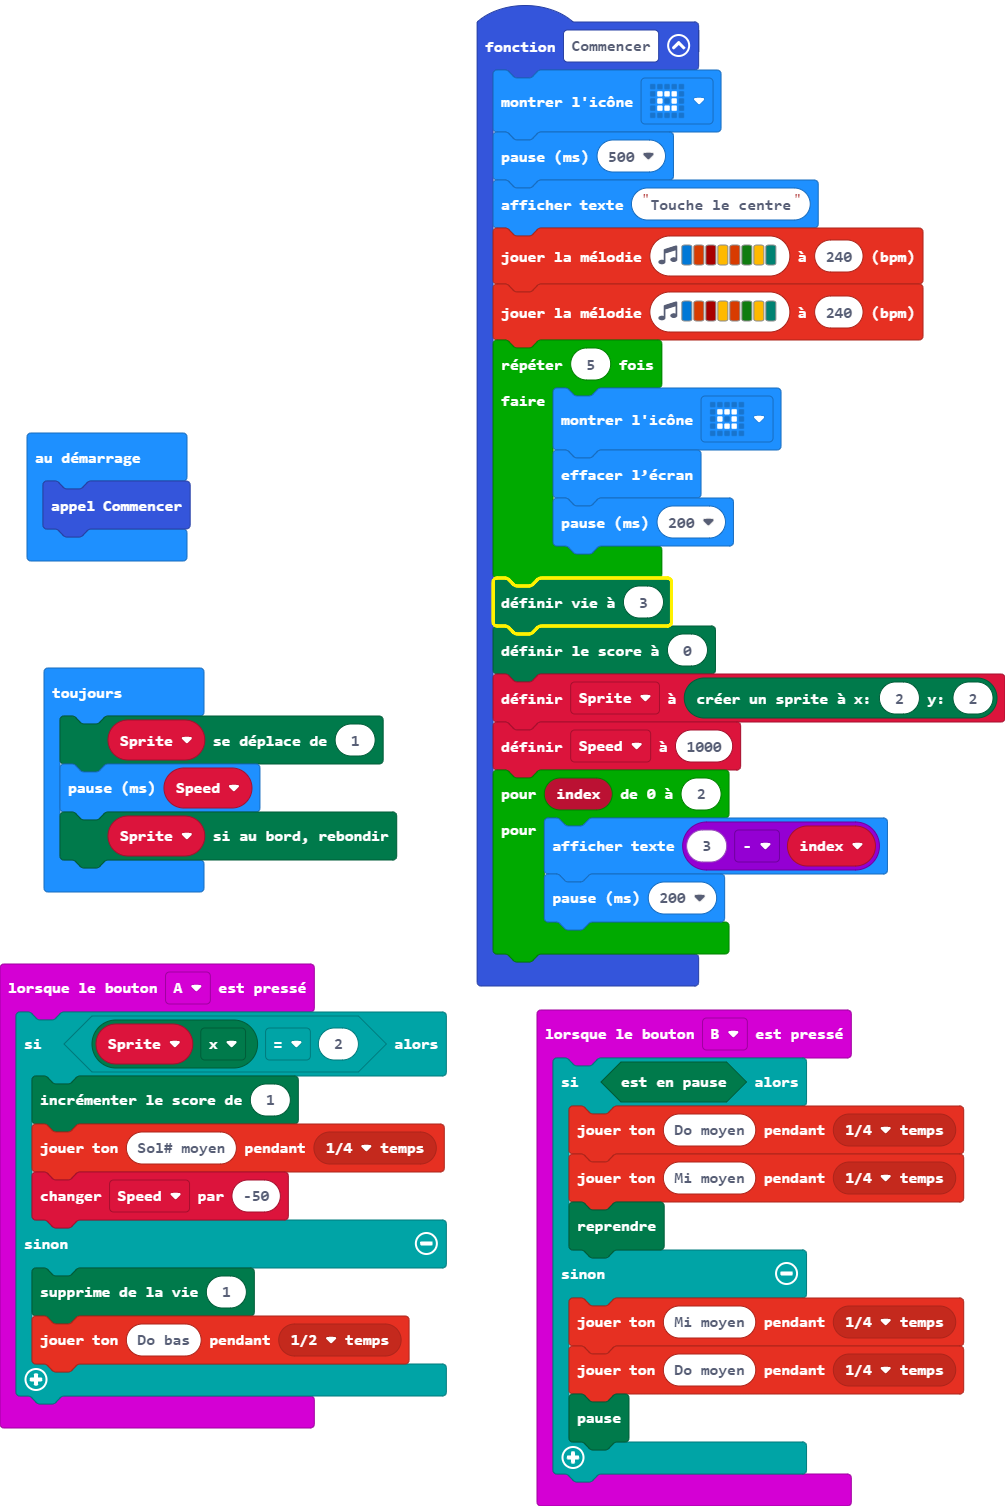
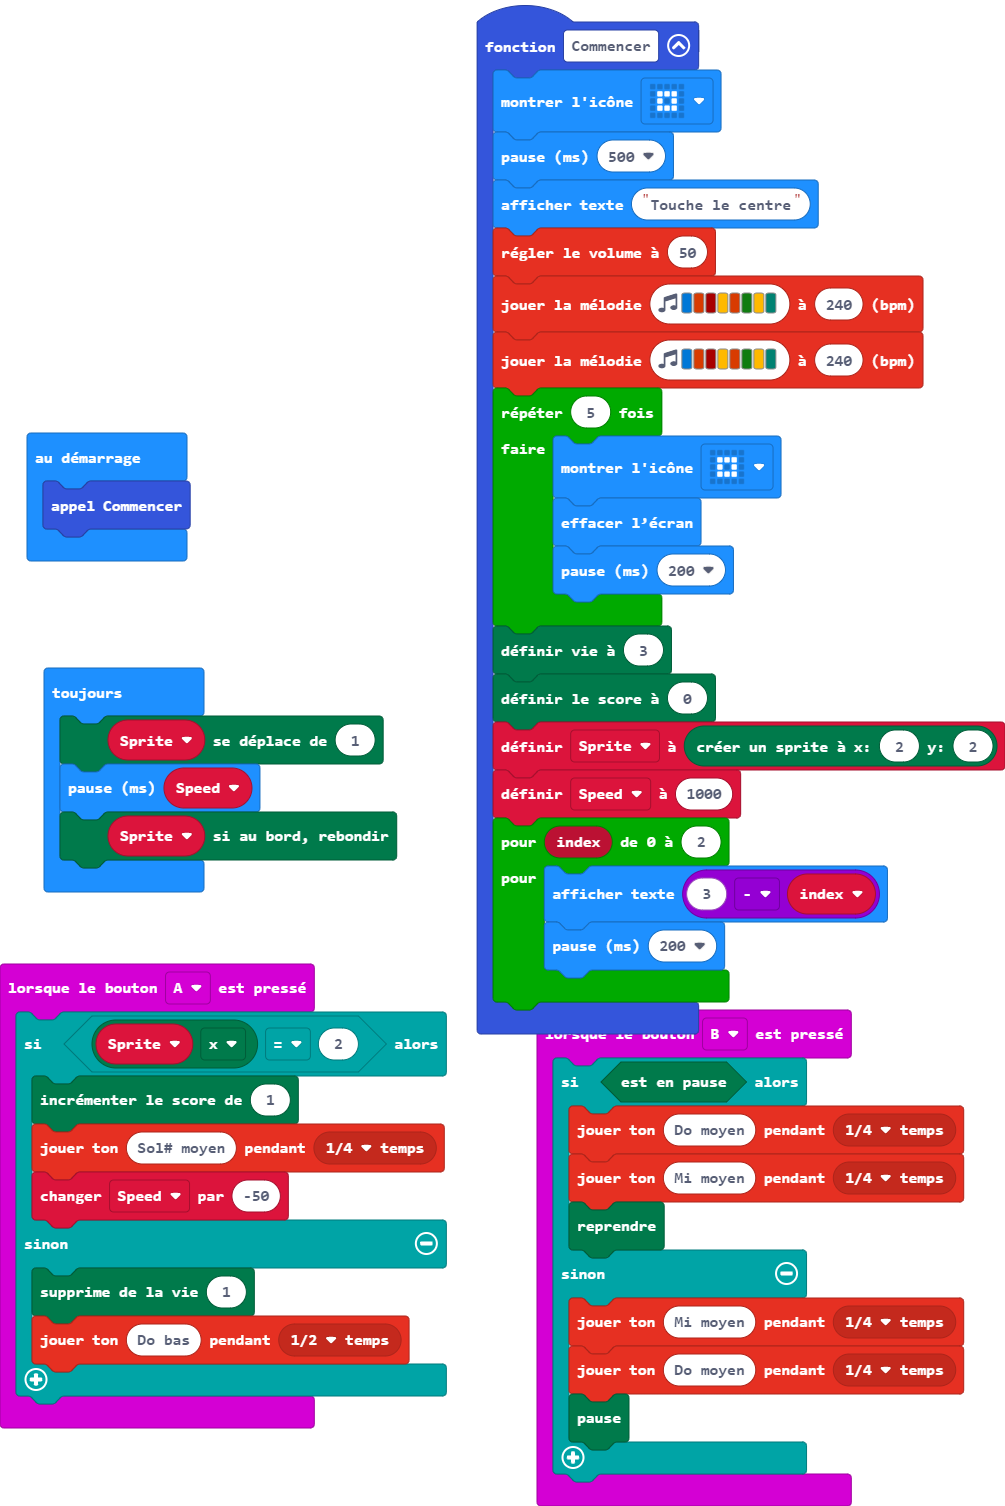
Baissé le volume

Changed region(s): [[0.4627, 0.1248, 1.0, 0.6866]]

diff --git a/main.ts b/main.ts
@@ -2,6 +2,7 @@ function Commencer () {
     basic.showIcon(IconNames.SmallSquare)
     basic.pause(500)
     basic.showString("Touche le centre")
+    music.setVolume(50)
     music.playMelody("E B C5 A B G A F ", 240)
     music.playMelody("E B C5 A B G A F ", 240)
     for (let index = 0; index < 5; index++) {
